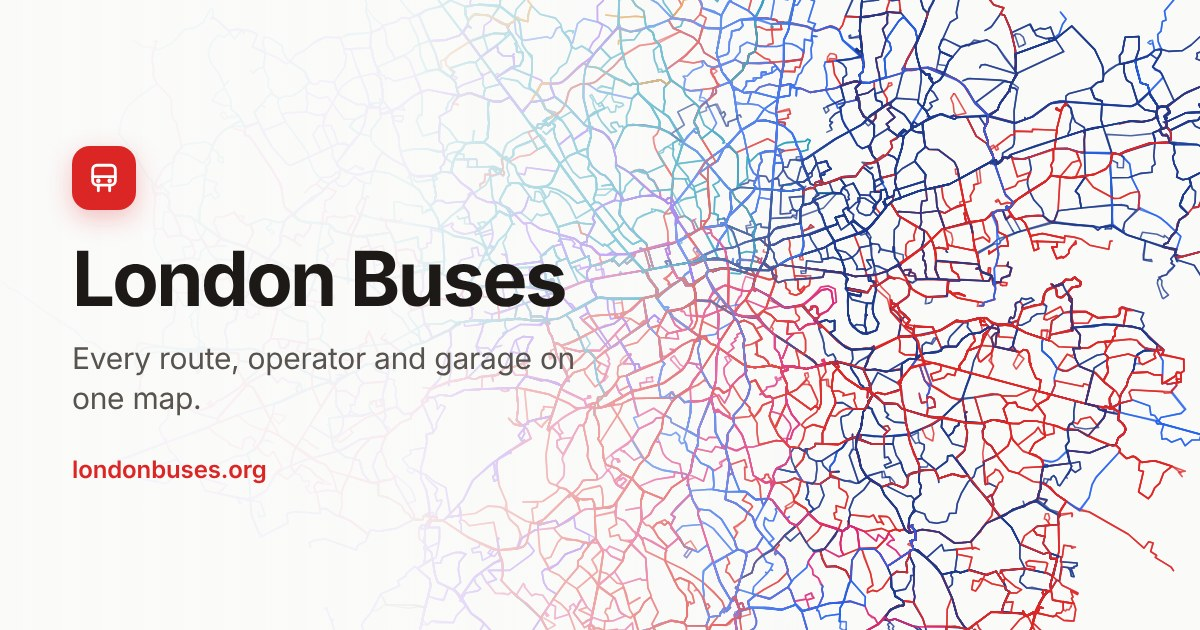
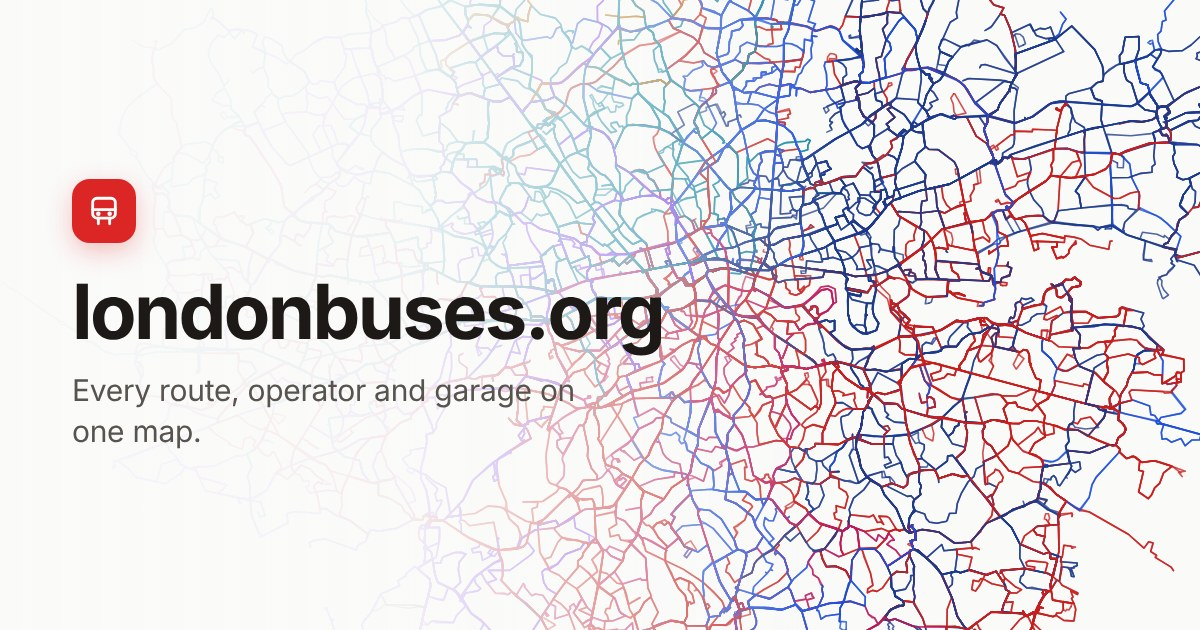
Stop popups show next three buses; rebrand to londonbuses.org; plate alignment; scroll focus
- Stop pins (route view and /map) show the next three arrivals plus a link to the full board
- Brand name is londonbuses.org in title, header, share tags, About, 404 and share image
- Plate padding tidied; scrollable fact values are keyboard-focusable

Claude-Session: https://claude.ai/code/session_01FRZJ8kKzBysPgMBZVrGa5f

Changed region(s): [[0.0617, 0.2111, 0.555, 0.7841]]

diff --git a/index.html b/index.html
@@ -3,23 +3,23 @@
 <head>
 <meta charset="utf-8" />
 <meta name="viewport" content="width=device-width, initial-scale=1, viewport-fit=cover" />
-<title>London Buses</title>
+<title>londonbuses.org</title>
 <meta name="description" content="Search and explore every London bus route, operator and garage — data refreshed regularly from open public sources." />
 <link rel="icon" type="image/svg+xml" href="/favicon.svg" />
 <link rel="canonical" href="https://londonbuses.org/" />
 <meta name="theme-color" content="#fafaf9" media="(prefers-color-scheme: light)" />
 <meta name="theme-color" content="#100f0e" media="(prefers-color-scheme: dark)" />
 <meta property="og:type" content="website" />
-<meta property="og:site_name" content="London Buses" />
-<meta property="og:title" content="London Buses — every route, operator and garage" />
+<meta property="og:site_name" content="londonbuses.org" />
+<meta property="og:title" content="londonbuses.org — every route, operator and garage" />
 <meta property="og:description" content="Explore London’s bus network on one map: routes, operators, garages, fleet, tenders, live buses, diversions and roadworks. Built on open data." />
 <meta property="og:url" content="https://londonbuses.org/" />
 <meta property="og:image" content="https://londonbuses.org/og.jpg" />
 <meta property="og:image:width" content="1200" />
 <meta property="og:image:height" content="630" />
-<meta property="og:image:alt" content="London’s bus network drawn as coloured route lines, with the London Buses name" />
+<meta property="og:image:alt" content="London’s bus network drawn as coloured route lines, with the londonbuses.org name" />
 <meta name="twitter:card" content="summary_large_image" />
-<meta name="twitter:title" content="London Buses — every route, operator and garage" />
+<meta name="twitter:title" content="londonbuses.org — every route, operator and garage" />
 <meta name="twitter:description" content="Explore London’s bus network on one map: routes, operators, garages, fleet, tenders, live buses, diversions and roadworks. Built on open data." />
 <meta name="twitter:image" content="https://londonbuses.org/og.jpg" />
 <link rel="preconnect" href="https://fonts.googleapis.com" />
@@ -295,7 +295,7 @@ table.fresh td.desc{text-align:left;font-family:var(--sans);color:var(--tx2);fon
 .footer{margin-top:34px;text-align:center;font-size:11.5px;color:var(--mu);line-height:1.7}
 
 /* UK-plate styling for vehicle registrations */
-.plate{display:inline-block;font-family:var(--mono);font-weight:600;font-size:11.5px;letter-spacing:.06em;color:#111;background:#fc0;border:1.5px solid #1c1917;border-radius:5px;padding:1px 7px;line-height:1.5;white-space:nowrap}
+.plate{display:inline-block;font-family:var(--mono);font-weight:600;font-size:11.5px;letter-spacing:.06em;color:#111;background:#fc0;border:1.5px solid #1c1917;border-radius:5px;padding:1.5px 7px .5px;line-height:1.5;white-space:nowrap}
 a.plate:hover{background:#ffd83d}
 /* long values (vehicle makes, company names) must not balloon a card —
    cap the cell and let it scroll inside */
@@ -404,7 +404,7 @@ main.fullbleed{max-width:none;display:flex;flex-direction:column;padding:0}
       <span class="brand-icon" aria-hidden="true">
         <svg viewBox="0 0 32 32" width="16" height="16" fill="none" stroke="#fff" stroke-width="2.4" stroke-linecap="round" stroke-linejoin="round"><rect x="7.5" y="7.5" width="17" height="15" rx="2.2"/><line x1="7.5" y1="14.5" x2="24.5" y2="14.5"/><circle cx="11" cy="19" r="1.2" fill="#fff"/><circle cx="21" cy="19" r="1.2" fill="#fff"/></svg>
       </span>
-      London Buses
+      londonbuses.org
     </a>
     <nav class="nav-desktop" id="navDesktop">
       <a href="#/map" data-nav="map">Map</a>
@@ -452,7 +452,7 @@ main.fullbleed{max-width:none;display:flex;flex-direction:column;padding:0}
 
 <script type="module">
 /* ════════════════════════════════════════════════════════════════════════
-   London Buses — single-file app, all data from this site’s own pipeline (data/api/*.json) plus TfL’s live endpoints.
+   londonbuses.org — single-file app, all data from this site’s own pipeline (data/api/*.json) plus TfL’s live endpoints.
    One file on purpose: the Cloudflare zone can edge-cache js/css for 4 h,
    which has repeatedly served mixed old/new module graphs mid-deploy.
    HTML is served max-age=0, so a single file can never version-skew.
@@ -843,6 +843,30 @@ const LAYER_UI = [
   { k:'sw', label:'Street works', icon:`<svg width="15" height="15" viewBox="0 0 24 24" fill="none" stroke="currentColor" stroke-width="2" stroke-linecap="round" stroke-linejoin="round"><path d="M13.5 4h-3L6 20h12z"/><path d="M9.2 10h5.6M7.9 15h8.2"/><path d="M4 20h16"/></svg>` },
   { k:'tro', label:'Traffic orders', icon:`<svg width="15" height="15" viewBox="0 0 24 24" fill="none" stroke="currentColor" stroke-width="2" stroke-linecap="round" stroke-linejoin="round"><circle cx="12" cy="12" r="8"/><path d="M8 12h8"/></svg>` },
 ];
+/* Stop pin popup: name, the next three buses (fetched when the popup opens), then a link to the full board. */
+function bindStopPopup(marker, id, name, extra = ''){
+  const dueText = ms => ms <= 30000 ? 'Due' : `${Math.round(ms/60000)} min`;
+  const box = document.createElement('div');
+  box.style.minWidth = '190px';
+  box.innerHTML = `<b>${esc(name)}</b>${extra}<div class="sp-arr" style="margin:6px 0 4px;font-size:12.5px;color:var(--tx2)">Loading arrivals…</div><a href="#/stop/${encodeURIComponent(id)}" style="color:var(--acc);font-weight:600">See all live arrivals ›</a>`;
+  const list = box.querySelector('.sp-arr');
+  let tok = 0;
+  marker.bindPopup(box);
+  marker.on('popupopen', async e => {
+    const my = ++tok;
+    const raw = await D.arrivals(id);
+    if(my !== tok) return;
+    const t0 = Date.now();
+    const rows = (raw?.data ?? []).filter(a => Number.isFinite(a.timeToStation))
+      .map(a => ({ ...a, dueAt: Number.isFinite(Date.parse(a.expectedArrival)) ? Date.parse(a.expectedArrival) : t0 + a.timeToStation * 1000 }))
+      .sort((a, b) => a.dueAt - b.dueAt).slice(0, 3);
+    list.innerHTML = rows.length
+      ? rows.map(a => `<div style="display:flex;align-items:center;gap:8px;padding:2px 0"><span class="rchip" style="min-height:0;padding:1px 7px;font-size:11.5px">${esc(a.lineName ?? '')}</span><span style="flex:1;min-width:0;white-space:nowrap;overflow:hidden;text-overflow:ellipsis">${esc(a.destinationName ? title(a.destinationName) : '')}</span><b style="font-family:var(--mono);color:var(--tx)">${dueText(a.dueAt - Date.now())}</b></div>`).join('')
+      : (raw ? 'No buses predicted right now.' : 'Arrivals unavailable right now.');
+    e.popup.update();
+  });
+  return marker;
+}
 /* Garage popup used by every map pin: headline numbers, every route as a
    tappable chip, and the detail link. */
 function garagePopupHtml(g, meta, extraRows = ''){
@@ -1072,7 +1096,11 @@ document.addEventListener('click', e => {
 window.addEventListener('scroll', hideTip, { passive:true });
 /* ── Router ───────────────────────────────────────────────────────────── */
 const main = document.getElementById('main');
-new MutationObserver(()=>{ main.querySelectorAll('div[style*="overflow-x:auto"]:not([tabindex])').forEach(e=>{ e.tabIndex=0; e.setAttribute('role','region'); e.setAttribute('aria-label','Scrollable table'); }); }).observe(main,{childList:true,subtree:true});
+new MutationObserver(()=>{
+  main.querySelectorAll('div[style*="overflow-x:auto"]:not([tabindex])').forEach(e=>{ e.tabIndex=0; e.setAttribute('role','region'); e.setAttribute('aria-label','Scrollable table'); });
+  // Long values that scroll inside their tile (fleet model names) need a keyboard stop too.
+  main.querySelectorAll('.fact .v:not([tabindex])').forEach(e=>{ if(e.scrollWidth > e.clientWidth + 1){ e.tabIndex=0; e.setAttribute('role','region'); e.setAttribute('aria-label', (e.closest('.fact')?.querySelector('.l')?.textContent ?? 'Value') + ' (scrollable)'); } });
+}).observe(main,{childList:true,subtree:true});
 /* The header wraps to a second line at some widths, so the full-screen map view subtracts its measured height, not a constant. */
 {
   const topbar = document.querySelector('.topbar');
@@ -1118,7 +1146,7 @@ function navigate(){
     garages:'Garages', tender:'Tender', diversions:'Diversions', streetworks:'Street works', tro:'Traffic orders', mileage:'Mileage', cpi:'CPI-CPA', about:'About',
     route:`Route ${arg ?? ''}`, stop:'Stop', operator: arg ?? 'Operator',
     garage:`Garage ${arg ?? ''}`, vehicle: arg ? String(arg).split('?')[0] : 'Vehicle' };
-  document.title = (TITLES[view] ? TITLES[view] + ' · ' : '') + 'London Buses';
+  document.title = (TITLES[view] ? TITLES[view] + ' · ' : '') + 'londonbuses.org';
   // One page_view per hash navigation (initial load included — send_page_view
   // is disabled in the config above so this is the single source of truth).
   if(typeof gtag === 'function') gtag('event', 'page_view', { page_location: location.href, page_title: document.title });
@@ -1805,9 +1833,9 @@ async function initRouteMap(route, m = {}, tok = navToken){
     }
     stopsLayer = L.layerGroup();
     for(const s of (stopRec[dir] ?? [])){
-      L.circleMarker([s.lat, s.lng], { radius:4.5, color:'#dc2626', weight:2, fillColor:isDark()?'#1b1917':'#fff', fillOpacity:1 })
-        .bindPopup(`<b>${esc(s.name)}</b><br><a href="#/stop/${encodeURIComponent(s.id)}" style="color:var(--acc);font-weight:600">Live arrivals ›</a>`)
+      const mk = L.circleMarker([s.lat, s.lng], { radius:4.5, color:'#dc2626', weight:2, fillColor:isDark()?'#1b1917':'#fff', fillOpacity:1 })
         .addTo(stopsLayer);
+      bindStopPopup(mk, s.id, s.name);
     }
     if(stopsOn) stopsLayer.addTo(_map);
   }
@@ -2237,9 +2265,7 @@ async function renderNetworkMap(){
         for(const sp of [...(rec.outbound ?? []), ...(rec.inbound ?? [])]){
           if(!Number.isFinite(sp.lat) || !Number.isFinite(sp.lng) || seen.has(sp.id)) continue;
           seen.add(sp.id); count++;
-          L.circleMarker([sp.lat, sp.lng], { radius:4.5, color:colour, weight:2, fillColor:isDark() ? '#1b1917' : '#fff', fillOpacity:1 })
-            .bindPopup(`<b>${esc(sp.name)}</b><br><span style="color:var(--tx2)">Route ${esc(name)}</span><br><a href="#/stop/${encodeURIComponent(sp.id)}" style="color:var(--acc);font-weight:600">Live arrivals ›</a>`)
-            .addTo(group);
+          bindStopPopup(L.circleMarker([sp.lat, sp.lng], { radius:4.5, color:colour, weight:2, fillColor:isDark() ? '#1b1917' : '#fff', fillOpacity:1 }), sp.id, sp.name, `<br><span style="color:var(--tx2)">Route ${esc(name)}</span>`).addTo(group);
         }
       }
       group.addTo(_map);
@@ -3056,8 +3082,7 @@ async function initVehicleLiveMap(R, v, ctxLine, ctxStop, tok = navToken){
     const s = reg?.get(ctxStop);
     if(s && _map){
       stopLL = [s.lat, s.lng];
-      L.circleMarker(stopLL, { radius:7, color:isDark()?'#f0eeec':'#1c1917', weight:2.5, fillColor:isDark()?'#1b1917':'#fff', fillOpacity:1 })
-        .bindPopup(`<b>${esc(s.name)}</b><br><a href="#/stop/${encodeURIComponent(ctxStop)}" style="color:var(--acc);font-weight:600">Live arrivals ›</a>`)
+      bindStopPopup(L.circleMarker(stopLL, { radius:7, color:isDark()?'#f0eeec':'#1c1917', weight:2.5, fillColor:isDark()?'#1b1917':'#fff', fillOpacity:1 }), ctxStop, s.name)
         .addTo(_map);
     }
   }
@@ -4103,7 +4128,7 @@ async function renderAbout(){
     <h1>About</h1>
     <div class="absub">Every London bus route, operator, garage and contract — built entirely from open data.</div>
 
-    <p>London Buses is an independent project. It is <b>not affiliated with Transport for London</b> or any bus operator, and it is not a journey planner — for travel advice use <a href="https://tfl.gov.uk" rel="noopener" target="_blank">tfl.gov.uk</a>.</p>
+    <p>londonbuses.org is an independent project. It is <b>not affiliated with Transport for London</b> or any bus operator, and it is not a journey planner — for travel advice use <a href="https://tfl.gov.uk" rel="noopener" target="_blank">tfl.gov.uk</a>.</p>
 
     <h2>Attribution</h2>
     <p class="note" style="margin-top:0">Powered by TfL Open Data. Contains OS data © Crown copyright and database rights 2016 and Geomni UK Map data © and database rights 2019. Contains public sector information licensed under the <a href="https://www.nationalarchives.gov.uk/doc/open-government-licence/version/3/" rel="noopener" target="_blank">Open Government Licence v3.0</a>. Map data © <a href="https://www.openstreetmap.org/copyright" rel="noopener" target="_blank">OpenStreetMap</a> contributors; basemap by OpenFreeMap, OpenMapTiles and CARTO.</p>

diff --git a/intelligence.html b/intelligence.html
@@ -4,7 +4,7 @@
 <meta charset="utf-8">
 <meta name="viewport" content="width=device-width, initial-scale=1">
 <meta name="robots" content="noindex">
-<title>Operator Intelligence · London Buses (v3 concept)</title>
+<title>Operator Intelligence · londonbuses.org</title>
 <meta name="description" content="Concept: a London bus operator intelligence dashboard built on the project's open data.">
 <link rel="icon" href="/favicon.svg" type="image/svg+xml">
 <link rel="preconnect" href="https://fonts.googleapis.com">

diff --git a/404.html b/404.html
@@ -3,7 +3,7 @@
   <head>
     <meta charset="UTF-8" />
     <meta name="viewport" content="width=device-width, initial-scale=1.0" />
-    <title>Page not found · London Buses</title>
+    <title>Page not found · londonbuses.org</title>
     <meta name="robots" content="noindex" />
     <link rel="icon" type="image/svg+xml" href="/favicon.svg" />
     <script defer src="https://mochi.farhan.app/script.js" data-website-id="832ba5a4-6e96-49b1-9679-5169843fd06b"></script>

diff --git a/site-banner.js b/site-banner.js
@@ -7,7 +7,7 @@
   const TAG = 'Experimental';
   const LABEL = 'Try Intelligence';
   const HREF = '/intelligence';
-  const BACK_LABEL = 'Back to London Buses';
+  const BACK_LABEL = 'Back to londonbuses.org';
   const BACK_HREF = '/';
   if(!ON || document.getElementById('site-banner')) return;
   const onTarget = location.pathname.startsWith(HREF);

diff --git a/SETUP.md b/SETUP.md
@@ -1,4 +1,4 @@
-# Setting up London Buses from scratch
+# Setting up londonbuses.org from scratch
 
 The checklist for standing the project up in a new repository, on a new host, under a new domain. Everything below is in the order it needs doing. Nothing here is magic: a public GitHub repository runs the data pipeline on a schedule, Git is the database, and a host serves the files plus two small `/api` endpoints.
 
@@ -11,7 +11,7 @@ How the pieces fit together is explained in `archive/docs/index.html` (sections 
 1. **Create a new, empty, public repository** on GitHub. Public matters: scheduled workflows get unlimited Actions minutes on public repositories, and the nightly pipeline alone uses 15–20 hours a month.
 2. **Push a clean snapshot, not the old history.** The old history carries years of automated data commits (the pack is ~80 MB) and author details that need not travel. From a checkout of the old `main`:
    ```bash
-   git checkout --orphan fresh && git add -A && git commit -m "London Buses"
+   git checkout --orphan fresh && git add -A && git commit -m "londonbuses.org"
    git remote set-url origin git@github.com:<owner>/<repo>.git
    git push -u origin fresh:main
    ```

diff --git a/README.md b/README.md
@@ -1,4 +1,4 @@
-# London Buses
+# londonbuses.org
 
 An interactive map and data explorer for every bus route in London. Search routes. See them on a map. Watch live arrivals and live bus positions. Browse operators, garages and stops. Dig into contracts: who runs each route, what it cost, and when it comes up for tender again.
 

diff --git a/data.md b/data.md
@@ -1,4 +1,4 @@
-# Data Pipeline — London Buses
+# Data Pipeline — londonbuses.org
 
 Definitive reference for every datapoint in this project: where it comes from, how
 it is cleaned, how blanks get filled, and what to watch out for. The data stays
